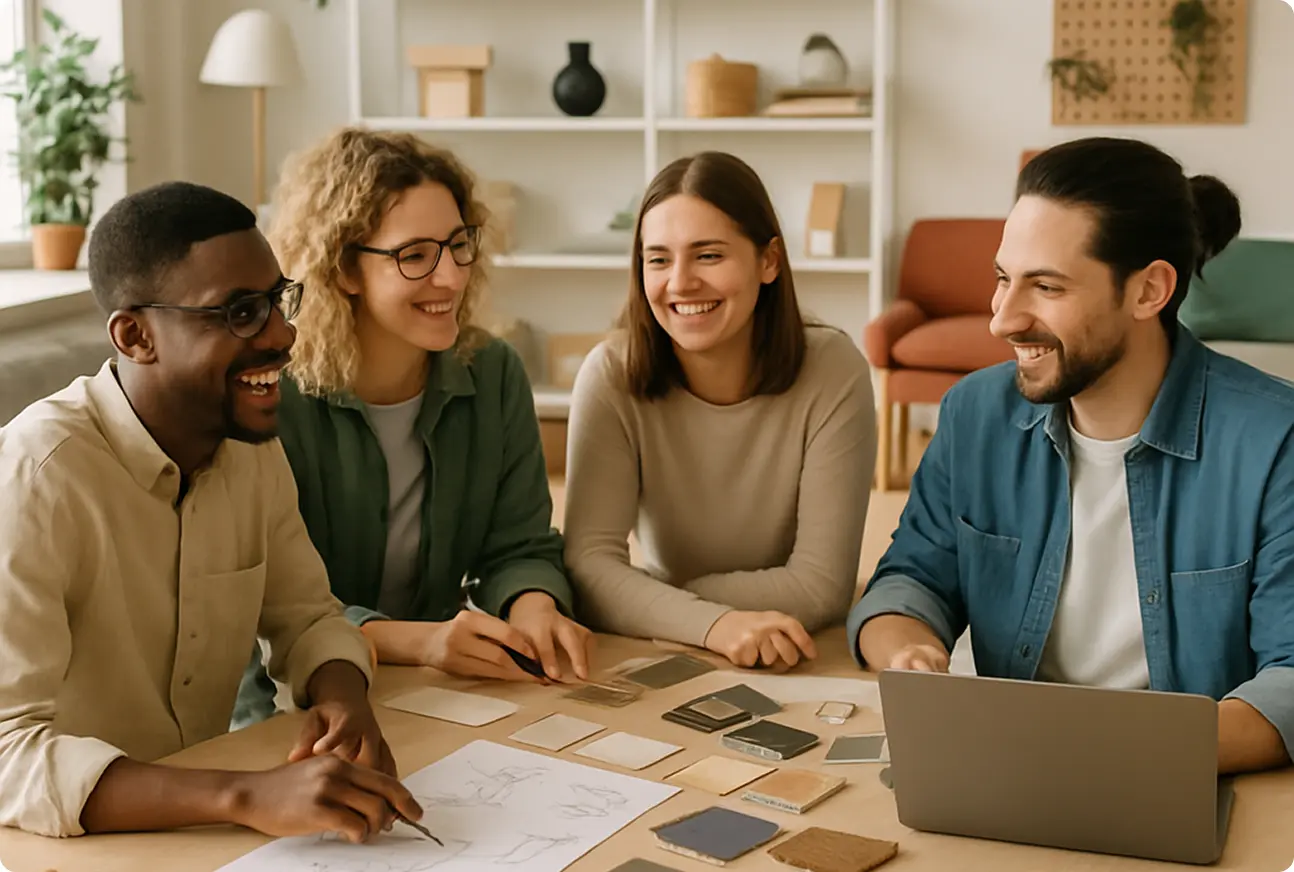
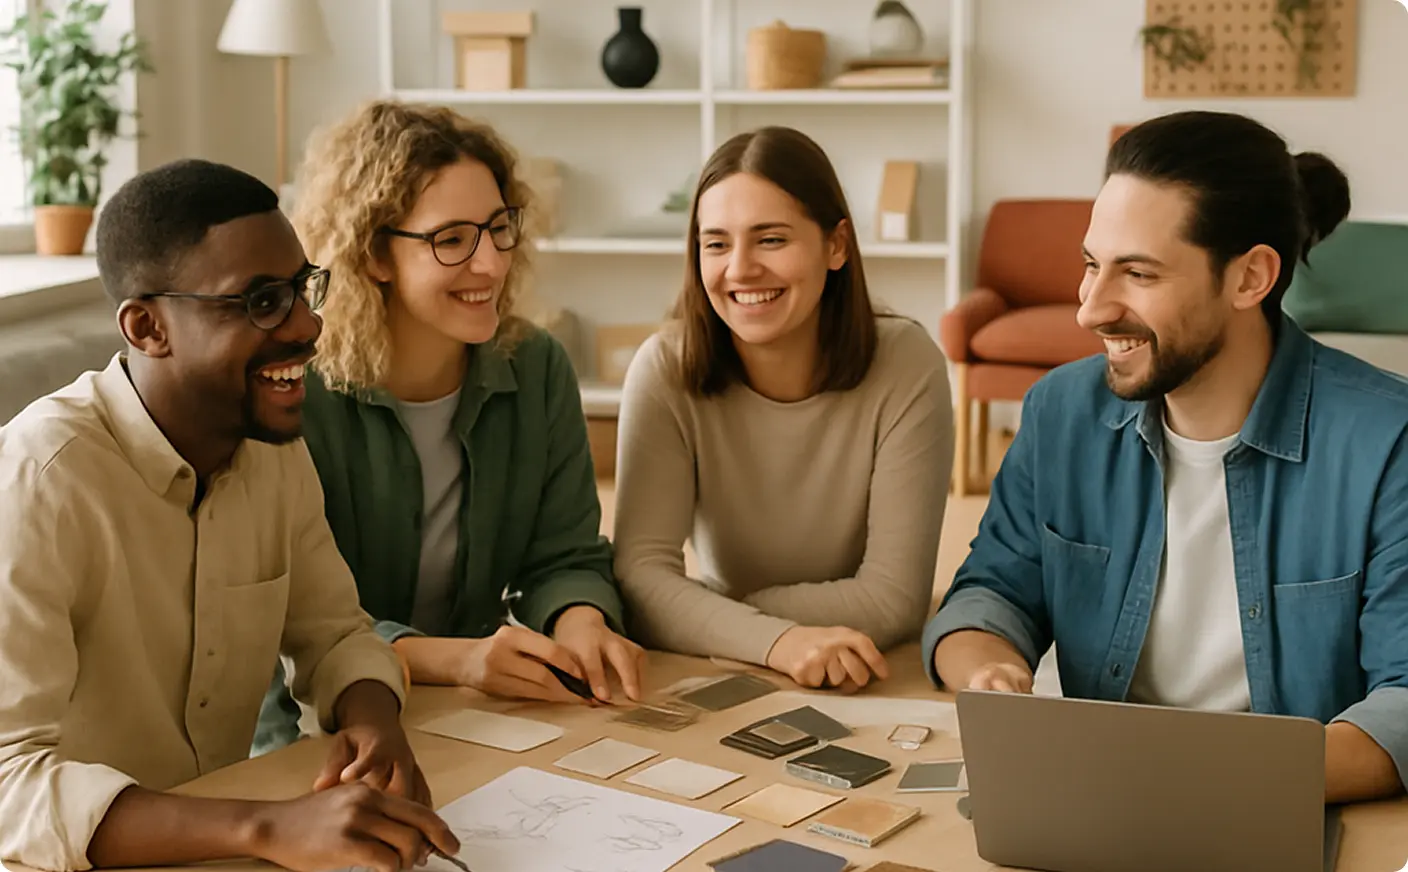
add styles for about section

diff --git a/src/partials/about.html b/src/partials/about.html
@@ -1,14 +1,23 @@
 <section class="about">
   <div class="container">
     <div class="about-content">
-      <h2 class="about-title">Про Меблерію</h2>
-      <p class="about-text">
-        У Меблерії ми прагнемо створювати затишок та функціональність у кожному
-        домі. Наша місія - пропонувати високоякісні меблі, що поєднують у собі
-        сучасний дизайн, довговічність та доступність. Ми віримо, що ідеальний
-        інтер'єр починається з правильних меблів.
-      </p>
+      <div class="about-text-wrapper">
+        <h2 class="about-title">Про Меблерію</h2>
+        <p class="about-text">
+          У Меблерії ми прагнемо створювати затишок та функціональність у
+          кожному домі. Наша місія - пропонувати високоякісні меблі, що
+          поєднують у собі сучасний дизайн, довговічність та доступність. Ми
+          віримо, що ідеальний інтер'єр починається з правильних меблів.
+        </p>
+      </div>
       <picture>
+        <source
+          media="(min-width: 1440px)"
+          srcset="
+            ../img/about/about-desk.webp    1x,
+            ../img/about/about-desk.2x.webp 2x
+          "
+        />
         <source
           media="(min-width: 768px)"
           srcset="

diff --git a/src/css/about.css b/src/css/about.css
@@ -1,4 +1,57 @@
 .about {
-  padding:;
-  background-color:;
+  padding: 64px 0;
+  background-color: #f0e6e6;
+}
+
+.about-content {
+  display: flex;
+  flex-direction: column;
+  gap: 24px;
+}
+
+.about img {
+  border-radius: 8px;
+}
+
+.about-text {
+  font-size: 18px;
+  line-height: 1.6;
+  font-weight: 400;
+}
+
+.about-title {
+  font-size: 36px;
+  line-height: 1.2;
+  font-weight: 700;
+  margin-bottom: 24px;
+}
+
+@media screen and (min-width: 768px) {
+  .about {
+    padding: 32px 0;
+  }
+}
+@media screen and (min-width: 1440px) {
+  .about {
+    padding: 64px 0;
+  }
+  .about-content {
+    flex-direction: row;
+    align-items: center;
+    gap: 24px;
+  }
+  .about picture {
+    width: 644px;
+    flex-shrink: 0;
+  }
+  .about picture img {
+    width: 100%;
+  }
+  .about-text {
+    width: 644px;
+  }
+  .about-title {
+    font-weight: 700;
+    font-size: 48px;
+  }
 }
